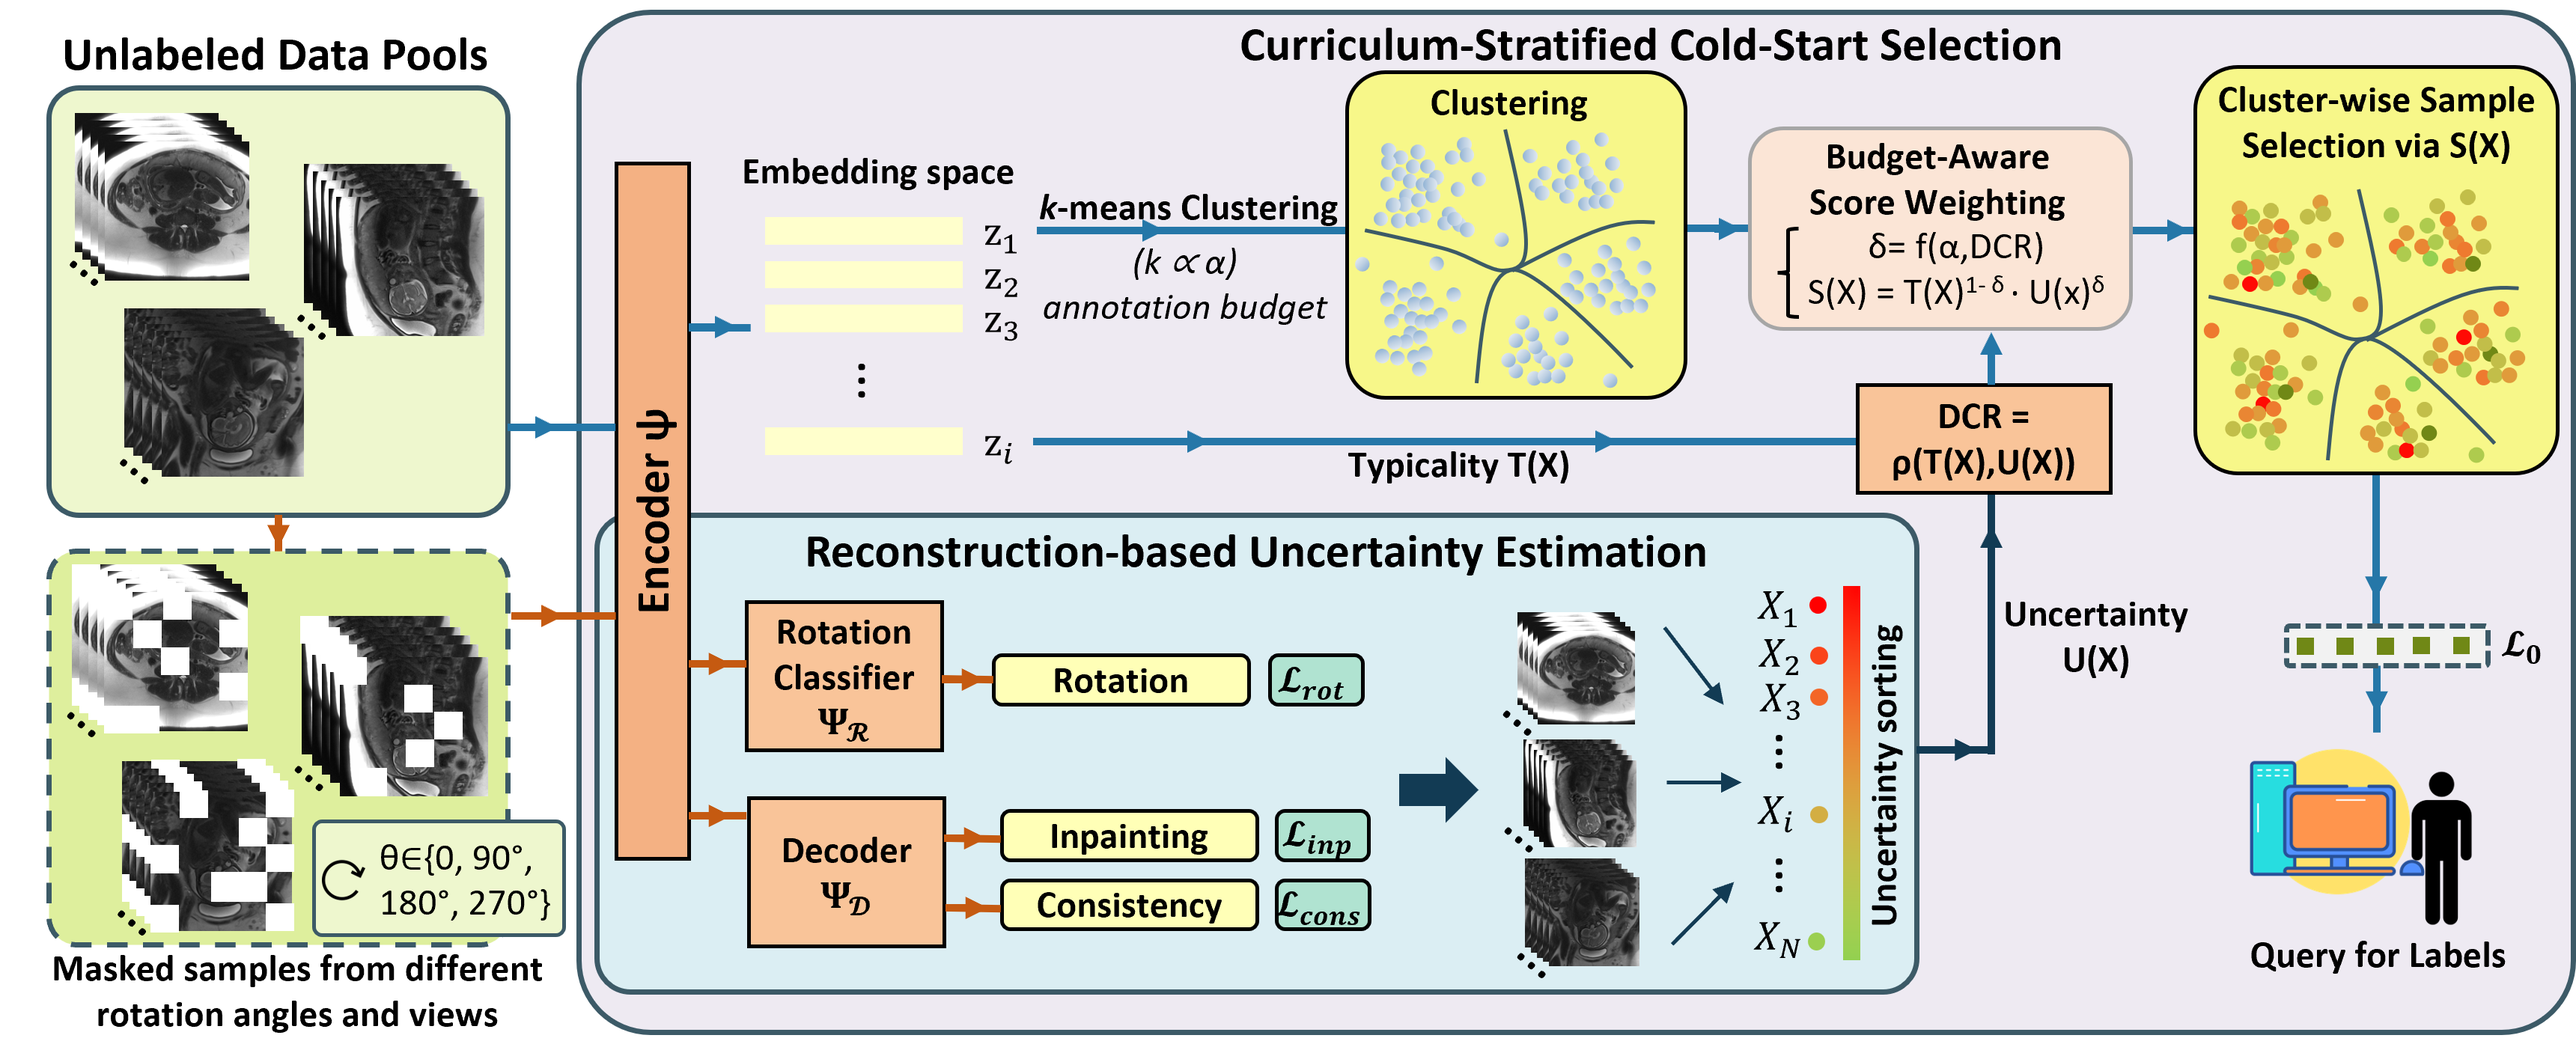
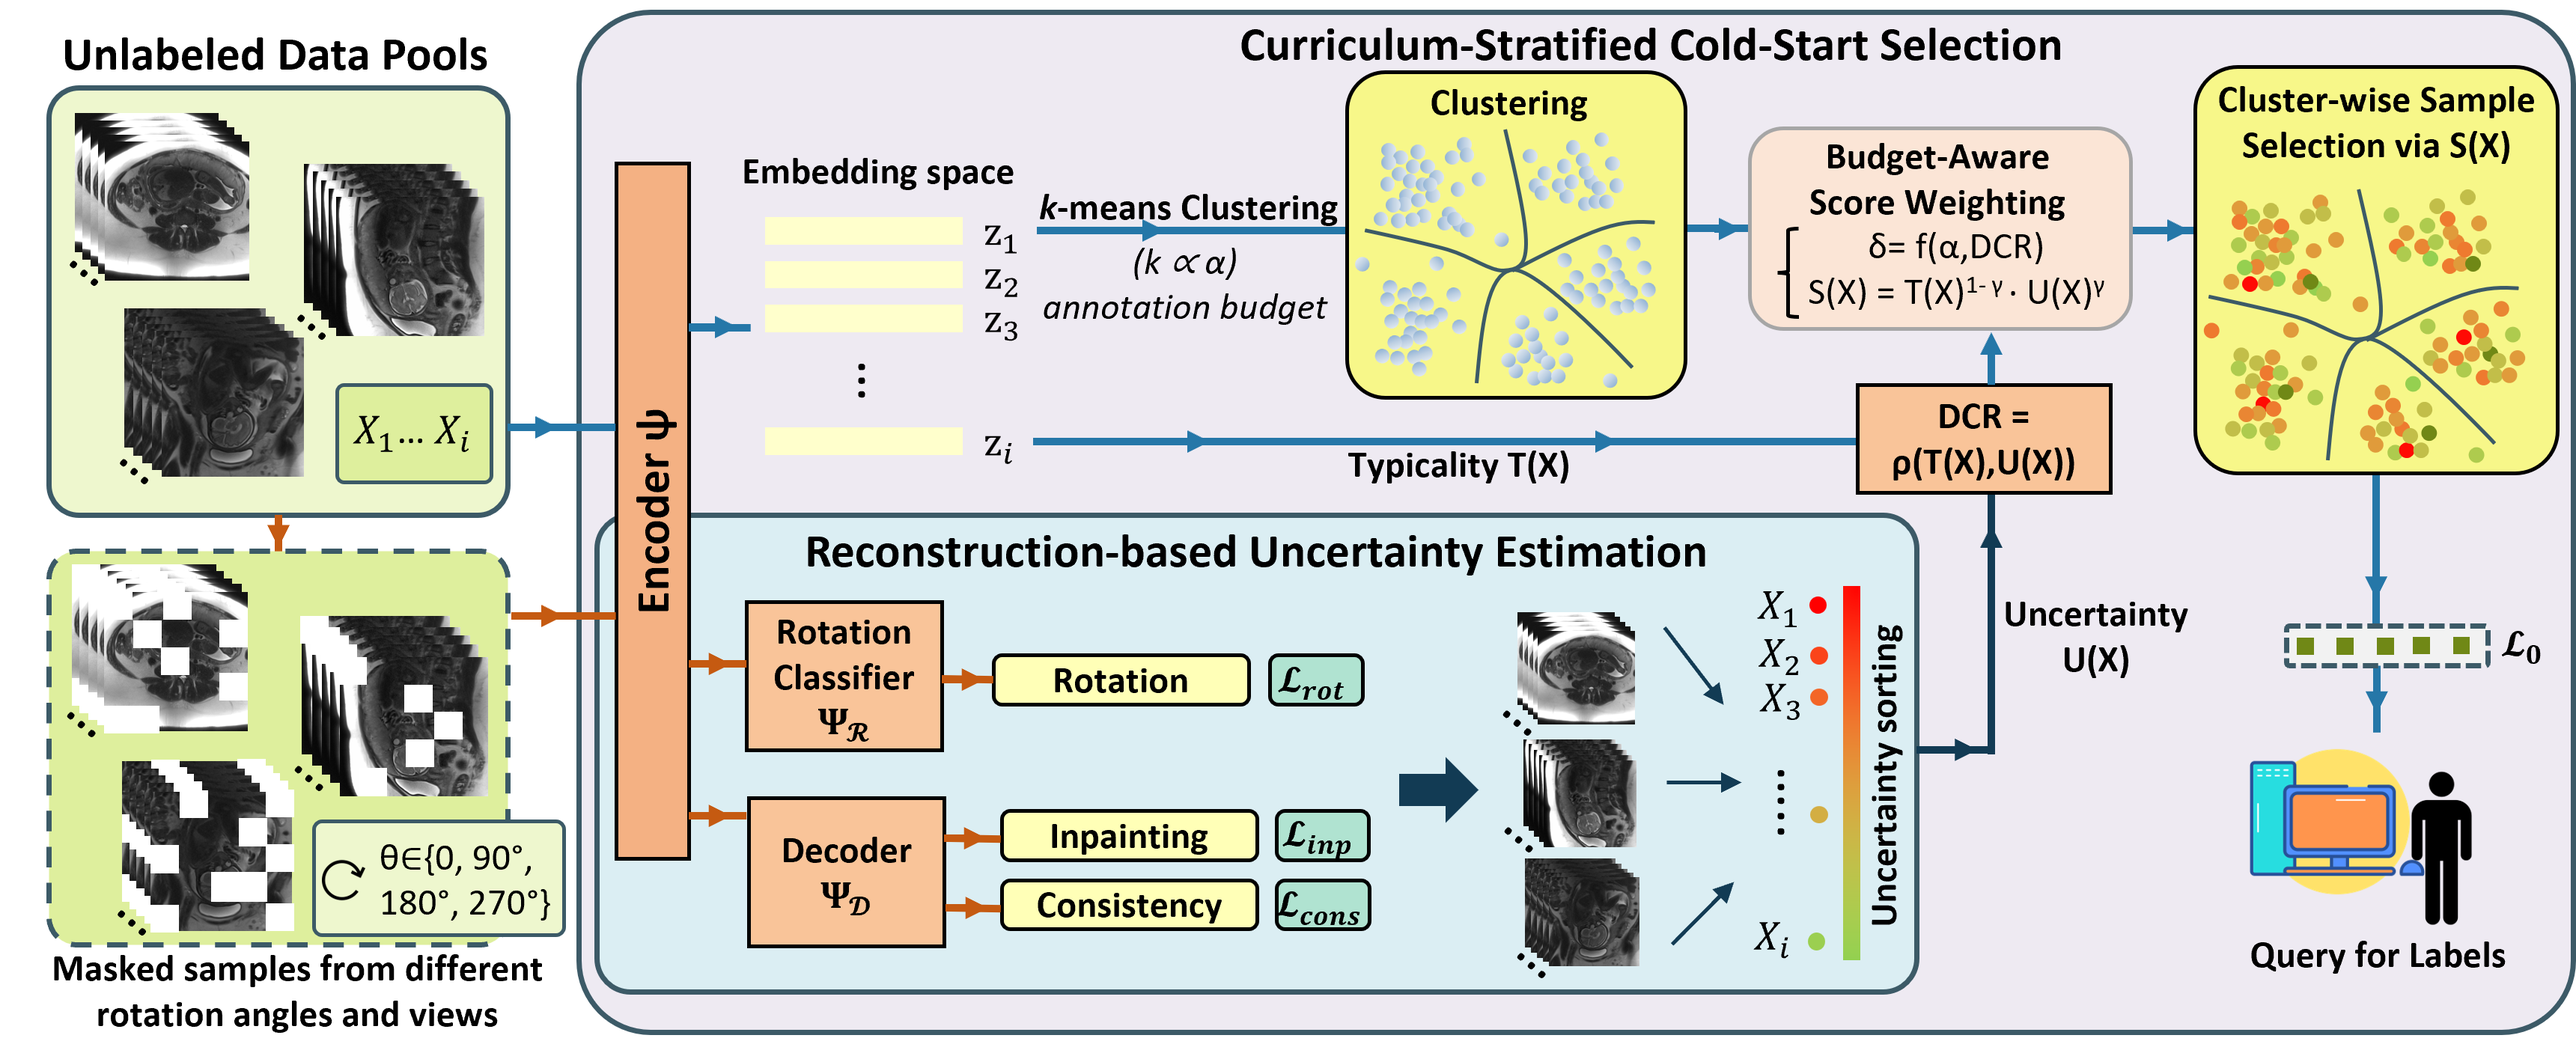
Update paper title and IADI unit number (U947 → U1254)

Changed region(s): [[0.1244, 0.342, 0.2177, 0.4664], [0.7463, 0.2488, 0.8085, 0.2799], [0.6841, 0.7463, 0.7152, 0.7774]]

diff --git a/README.md b/README.md
@@ -4,10 +4,10 @@
 segmentation. Given a fully unlabeled pool, CSCS selects an initial labeled set L₀ by
 combining SSL embeddings, typicality, uncertainty, and an adaptive composite score.
 
-> **Paper**: "CSCS: A Dataset-Aware Curriculum for Cold-Start Active Learning in 3D Medical
+> **Paper**: "Dataset-Aware Cold-Start Active Learning for Annotation-Efficient 3D Medical
 > Image Segmentation"  
 > Rémi Hattat, Marine Beaumont, Charline Bertholdt, Gabriela Hossu, Olivier Morel, Bailiang Chen  
-> IADI (U947), Inserm and Université de Lorraine, Nancy, France  
+> IADI (U1254), Inserm and Université de Lorraine, Nancy, France  
 > *[Citation placeholder — link to be added upon publication]*
 
 ![CSCS Pipeline](figures/CSCS_pipeline.png)
@@ -241,8 +241,8 @@ pytest tests/ -v
 
 ```bibtex
 @article{hattat2026cscs,
-  title   = {CSCS: A Dataset-Aware Curriculum for Cold-Start Active Learning
-             in 3D Medical Image Segmentation},
+  title   = {Dataset-Aware Cold-Start Active Learning for
+             Annotation-Efficient 3D Medical Image Segmentation},
   author  = {Hattat, Rémi and others},
   journal = {[To be announced]},
   year    = {2026},
